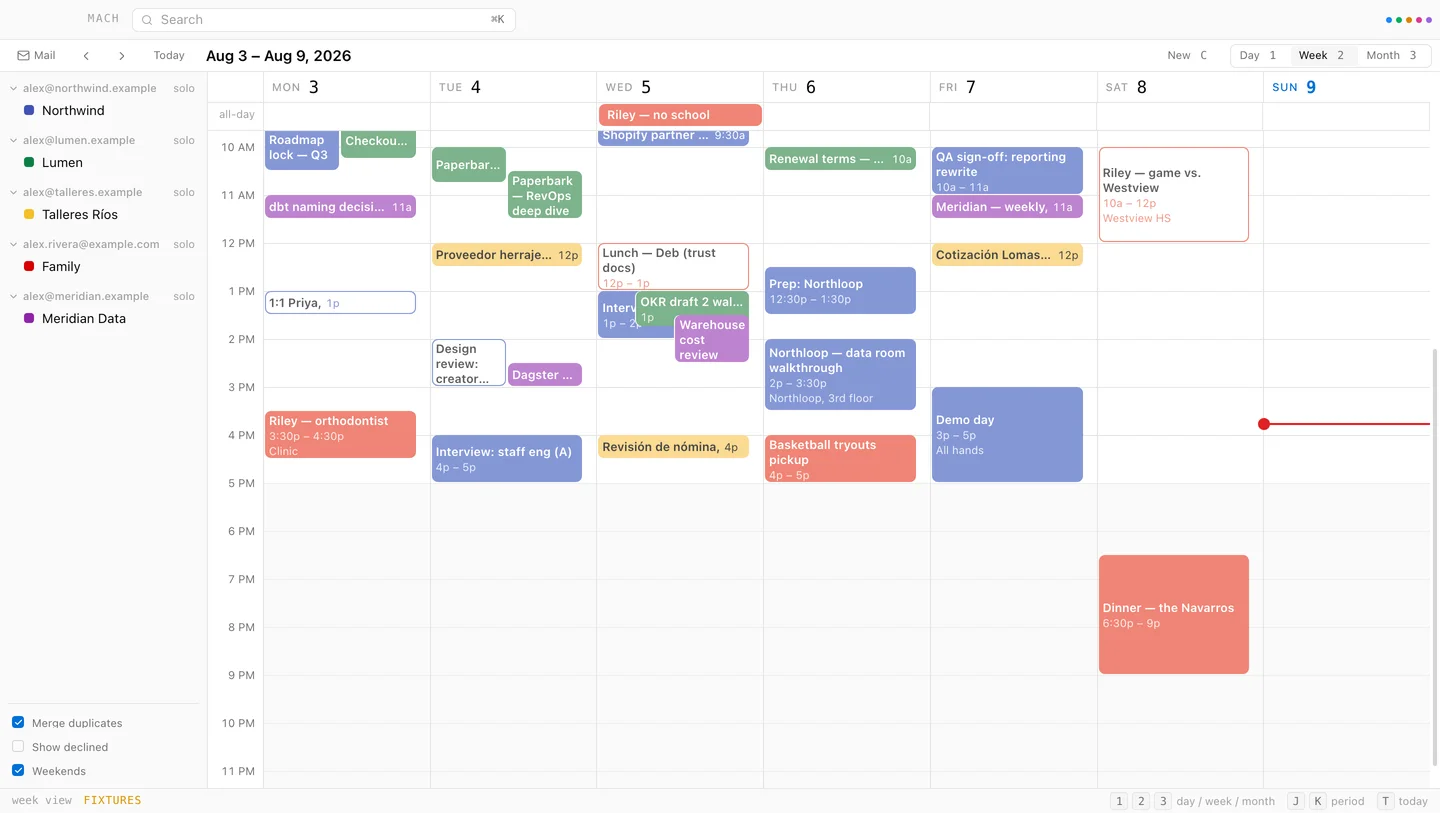
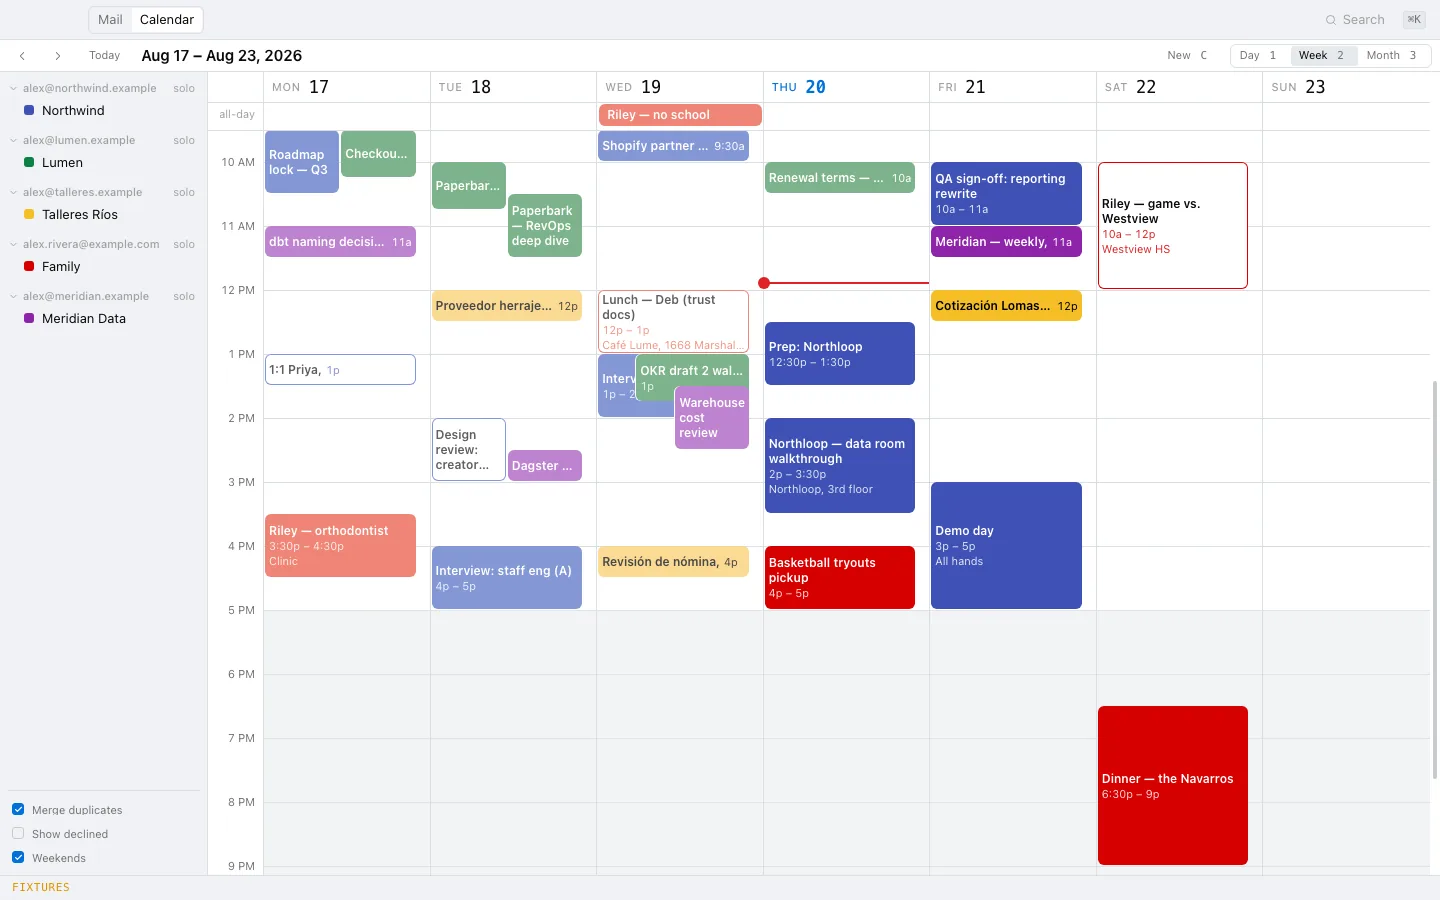
docs: restage the mail and calendar screenshots
The figures still had the old title bar, Calendar hanging in the mail
rail, and account colour bars the app no longer draws. Fixture data,
as before.

diff --git a/docs/index.html b/docs/index.html
@@ -713,9 +713,8 @@
         <figcaption>
           <h3>Five accounts in one inbox</h3>
           <p>
-            Everything in date order, with a colour bar for whose account it is. None of
-            it's real mail, though. That's the test suite's fixture data, and the
-            status bar says so.
+            Everything in date order. None of it's real mail, though. That's the
+            test suite's fixture data, and the status bar says so.
           </p>
         </figcaption>
         <div class="shot">
@@ -734,8 +733,8 @@
                 screenshot-mail@2x.webp 2x
               "
               width="1440"
-              height="813"
-              alt="The Mach mail window: an account rail on the left, a dense unified thread list in the middle with a coloured bar per account, and an open conversation in the reading pane on the right."
+              height="900"
+              alt="The Mach mail window: Mail and Calendar in the title bar, an account rail on the left, a dense unified thread list in the middle, and an open conversation in the reading pane on the right."
             />
           </picture>
         </div>
@@ -974,7 +973,7 @@
                   screenshot-calendar@2x.webp 2x
                 "
                 width="1440"
-                height="813"
+                height="900"
                 loading="lazy"
                 decoding="async"
                 alt="The Mach calendar in week view: five accounts' calendars overlaid in one grid, each event tinted by the calendar it belongs to, with a red line marking the current time."
